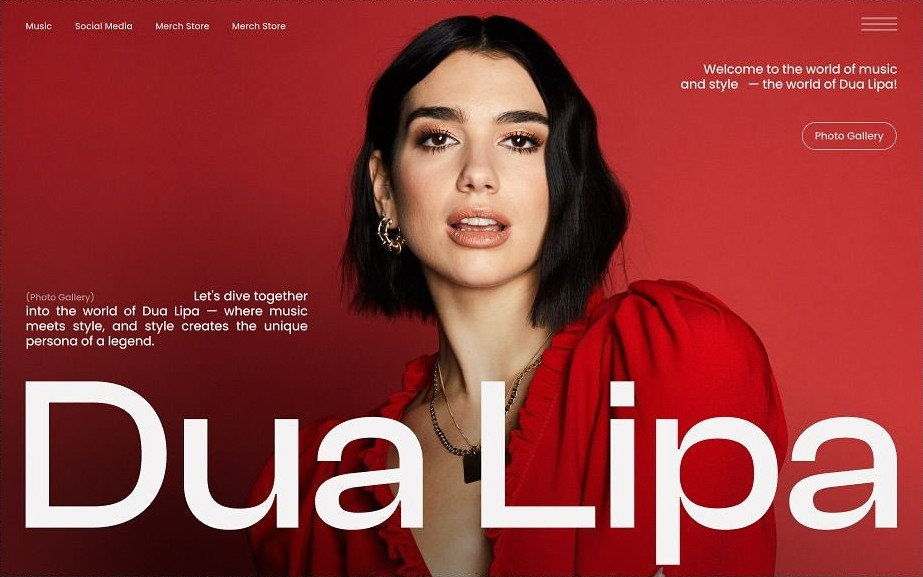
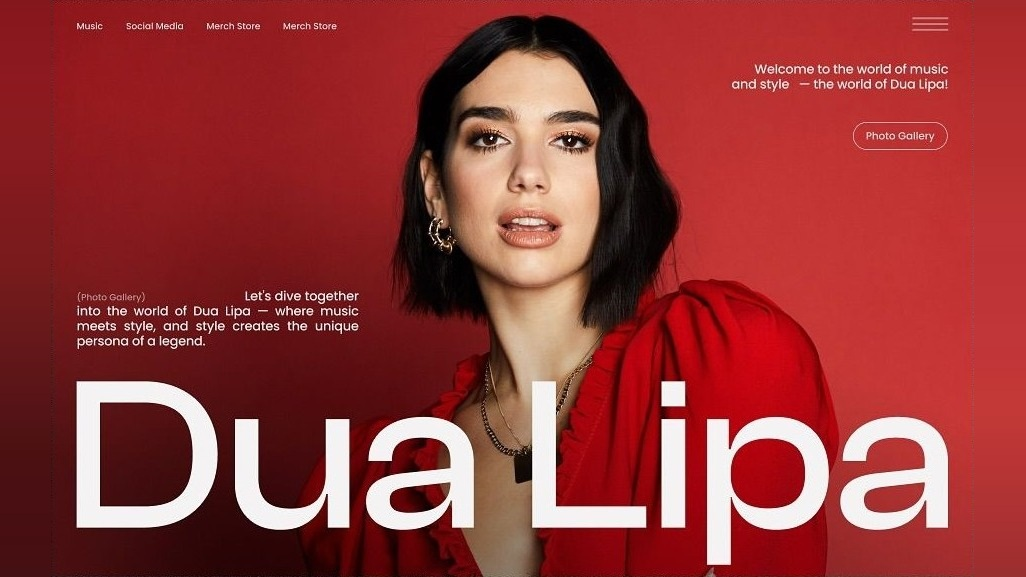
fix(demo): size the scrub viewport to its frames, so no grey surround
The frames sat in a box whose aspect changed with the window —
`height: 80vh` against a fluid width — so `object-fit: contain` always
had leftover space and that space painted `--surface`. The result was a
grey border around every frame that moved as you resized, which is what
the owner was seeing.

All four frames are 16:9 now and the box is 16:9, so it fills exactly:
measured viewport 1028x578 against a rendered image of 1028x578. No
crop, no bars, and the box no longer needs a background or a border to
paint behind anything.

Getting the 1.60 frame there was padding, not stretching — faces do not
survive a non-uniform scale. Its own red gradient is extended outward to
1.778. The first attempt replicated a single edge column and reproduced
that column's JPEG noise on every row, which read as horizontal banding
down both sides; averaging a 10px block per row instead removes it.

Also repairs the Hendrix frame's corners, which carried the mockup's
light backdrop through the screen's rounded corners: 224-232 against
straight edges of 26-39, now 31-57. Two passes, because the first
stopped on the antialiased blend pixels between backdrop and screen,
which are themselves lighter than the real edge.

901 tests green; scroll.html authored=93 installed=93 failed=0.

Claude-Session: https://claude.ai/code/session_01FdM2USArZDcC54AF92wS6b

diff --git a/demo/scroll.html b/demo/scroll.html
@@ -801,9 +801,15 @@
 
   /* ---------- sequence-scrub (Section C) ---------- */
   .scrub-stage { height: 260vh; margin-top: 2rem; }
+  /* Sized to the frames rather than to the viewport, which is what removes the grey surround.
+     `height: 80vh` gave a box whose aspect changed with the window, so `contain` always had
+     leftover space to fill and that space was `--surface` — a grey border round every frame that
+     moved as you resized. All four frames are 16:9 now (the 1.60 one is padded by edge
+     replication, which continues its red gradient rather than banding against it), so a 16:9 box
+     is filled exactly: no crop, no bars, nothing to paint behind them. */
   .scrub-viewport {
-    position: sticky; top: 10vh; height: 80vh; max-height: 560px;
-    border-radius: 14px; overflow: clip; border: 1px solid var(--border); background: var(--surface);
+    position: sticky; top: 10vh; aspect-ratio: 16 / 9; max-height: 80vh;
+    border-radius: 14px; overflow: clip;
   }
   /* `scroll-desaturate` used to be composed onto this element, wiping grayscale to colour across
      the scrub. It is gone at the owner's request: these frames are other people's work, and
